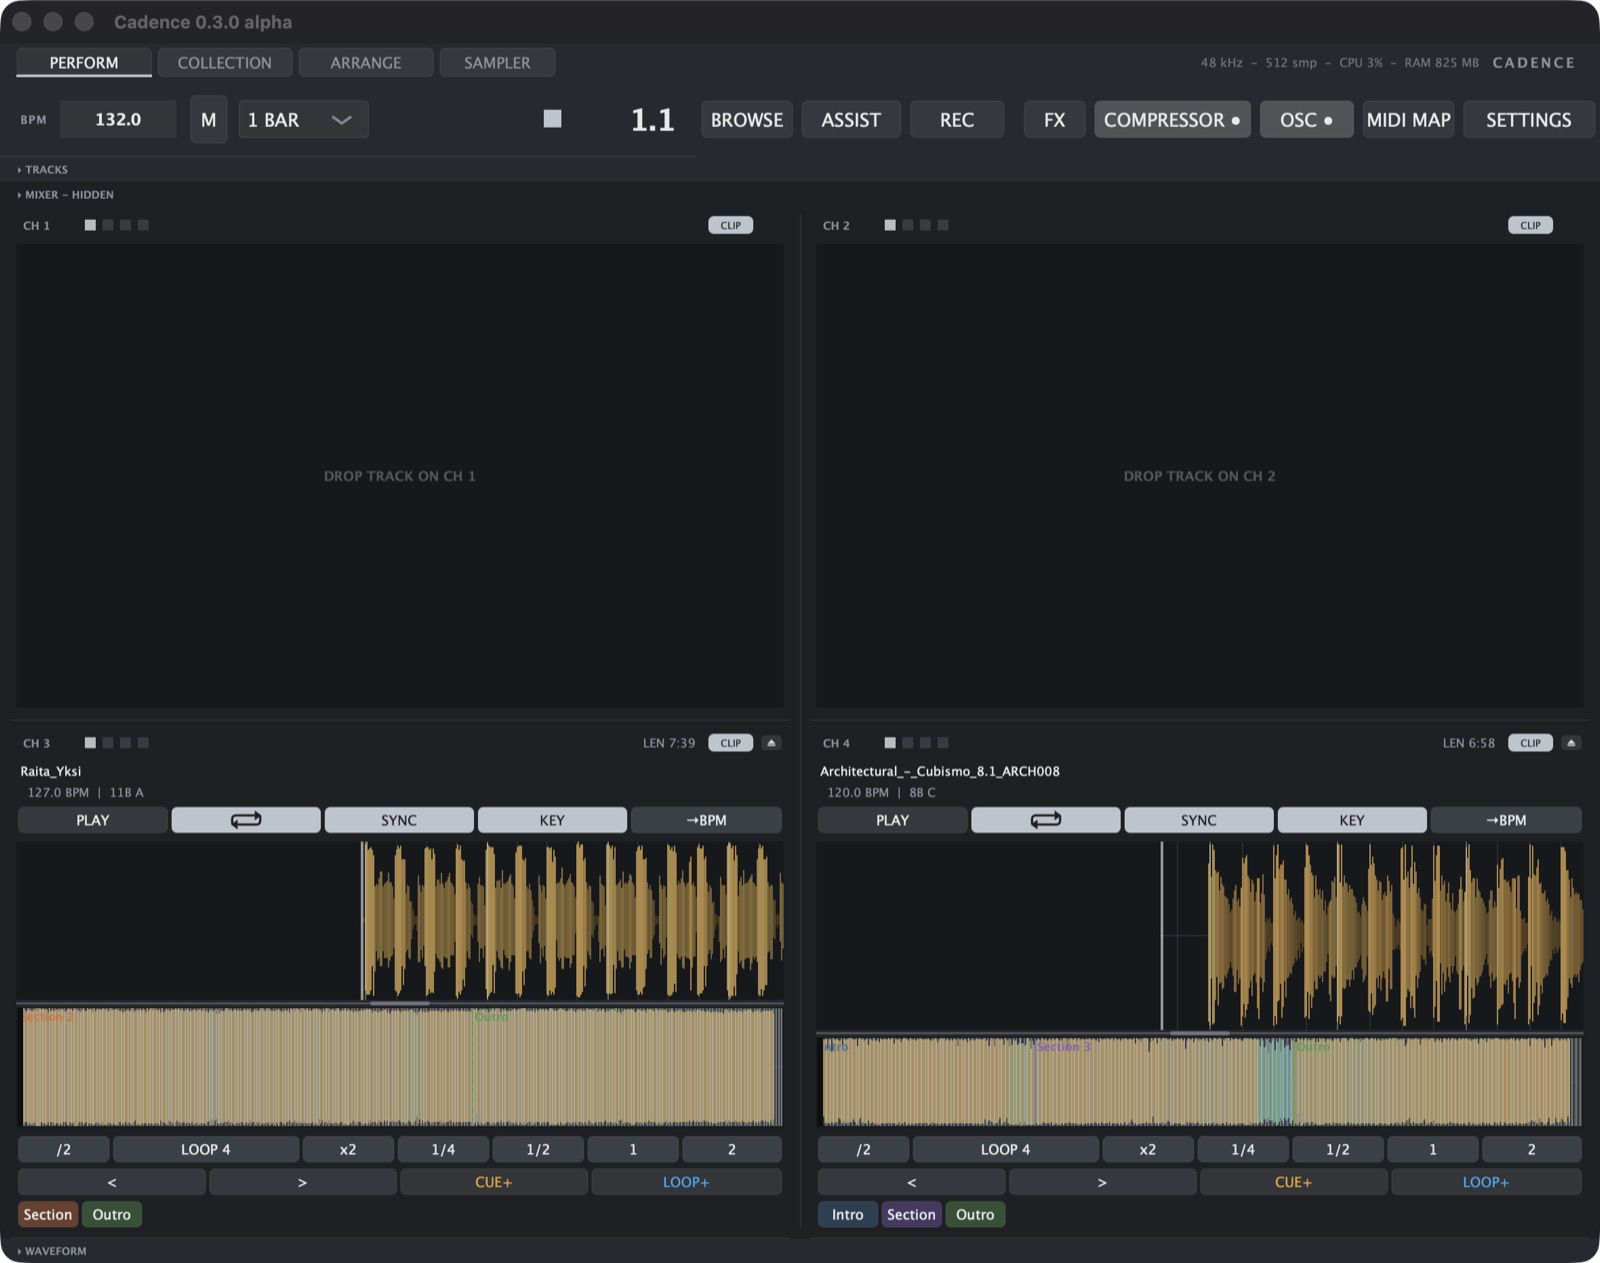
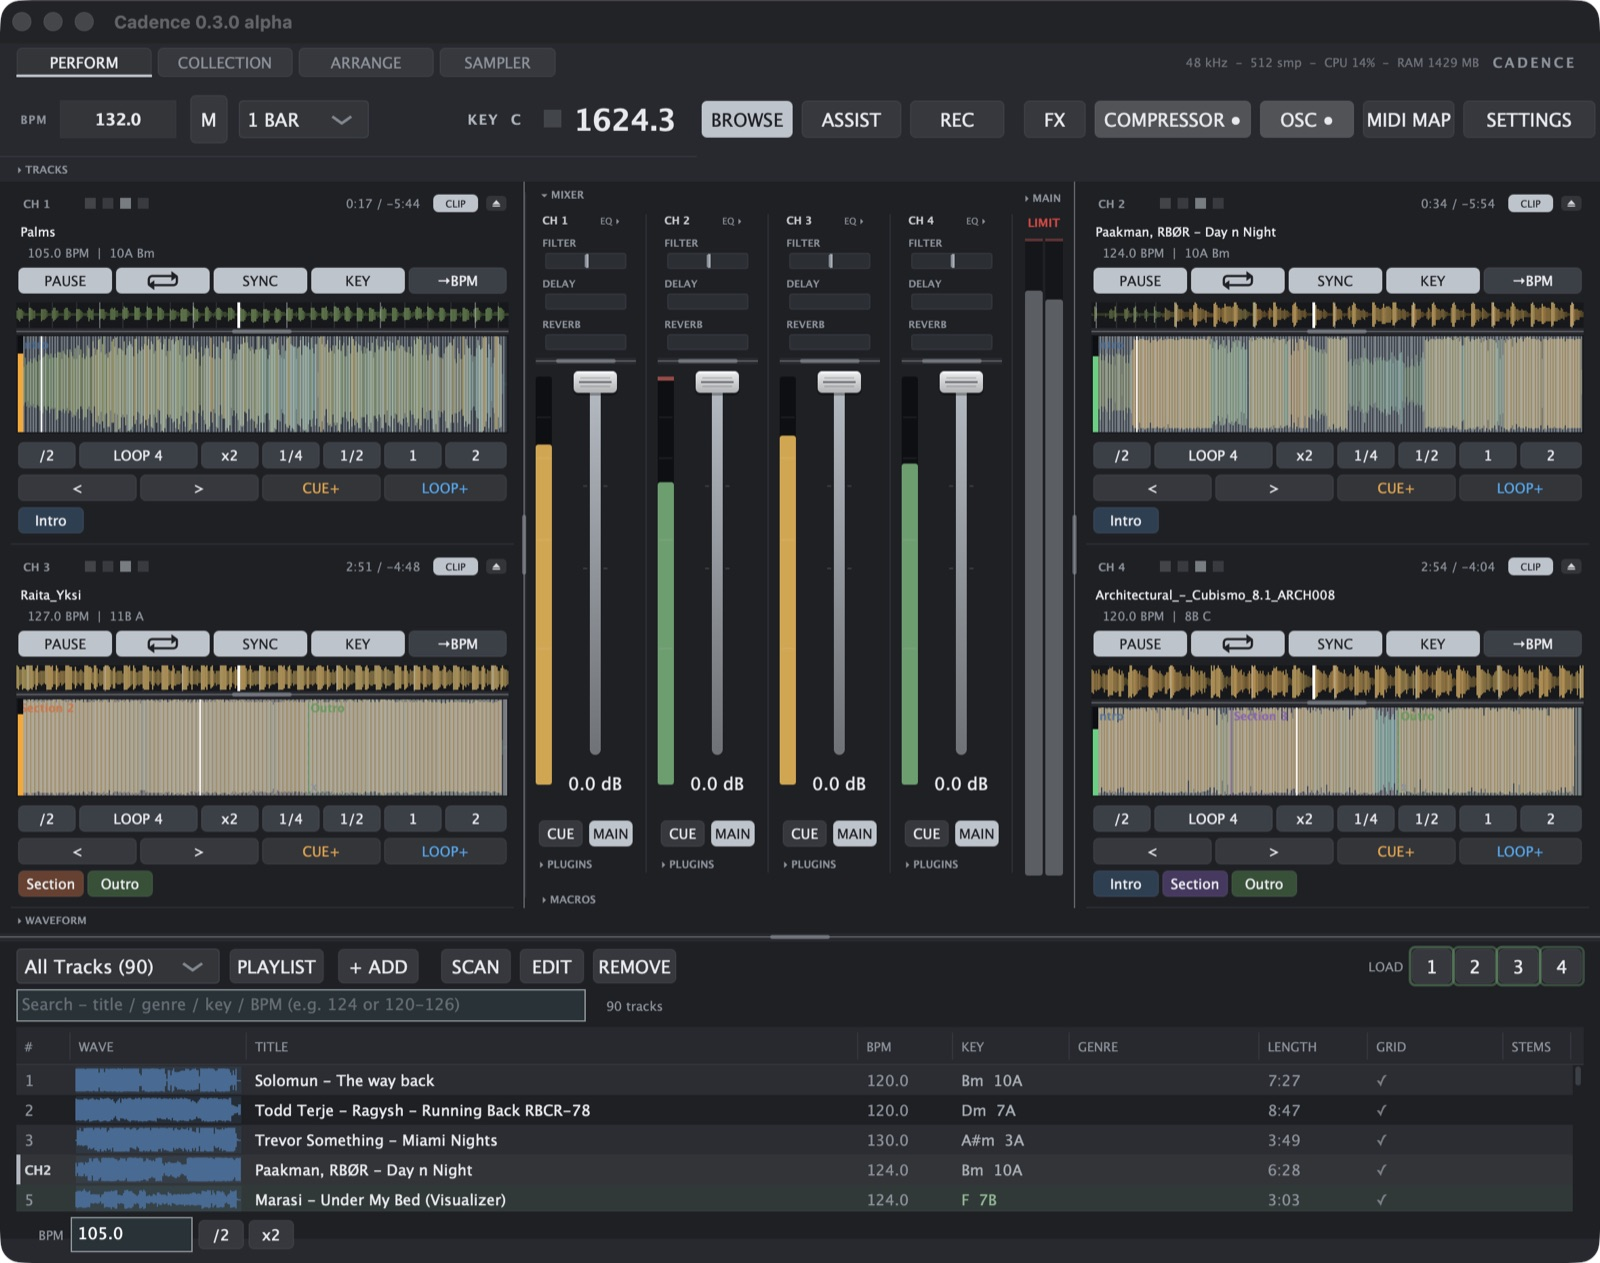
Cadence marketing shots v2: full 4-deck Perform hero + Arrange view band
Perform capture now shows all four decks loaded (waveforms, beatgrids,
section markers), the mixer panel with per-channel filter/delay/reverb,
and the open collection browser. New Arrange view band on /cadence/.

diff --git a/cadence/index.html b/cadence/index.html
@@ -142,6 +142,13 @@
     </div>
   </section>
 
+  <!-- ─── arrange view ────────────────────────────────────────────────────── -->
+  <section class="wrap" style="padding-bottom:clamp(48px,7vh,72px)">
+    <div class="rule-label"><h2 class="eyebrow" style="margin:0;font-weight:500">Arrange the set, keep it live</h2><span class="mono small muted">Arrange view</span></div>
+    <div class="frame"><img src="/img/shots/cadence-arrange.jpg" alt="Cadence's Arrange view: four channel lanes of clips on a bar timeline with automation lanes and a live playhead" width="1600" loading="lazy"></div>
+    <p class="mono small muted" style="margin-top:12px">Arrange view — clips on a bar timeline with automation lanes for volume, filter, sends, OSC and macros. Prepare the skeleton of a set, then play over it: every lane stays editable while the transport runs.</p>
+  </section>
+
   <!-- ─── bundle ──────────────────────────────────────────────────────────── -->
   <section id="bundle" class="section" style="scroll-margin-top:70px;background:var(--bg-deep);border-top:1px solid var(--edge-soft);border-bottom:1px solid var(--edge-soft)">
     <div class="wrap">
